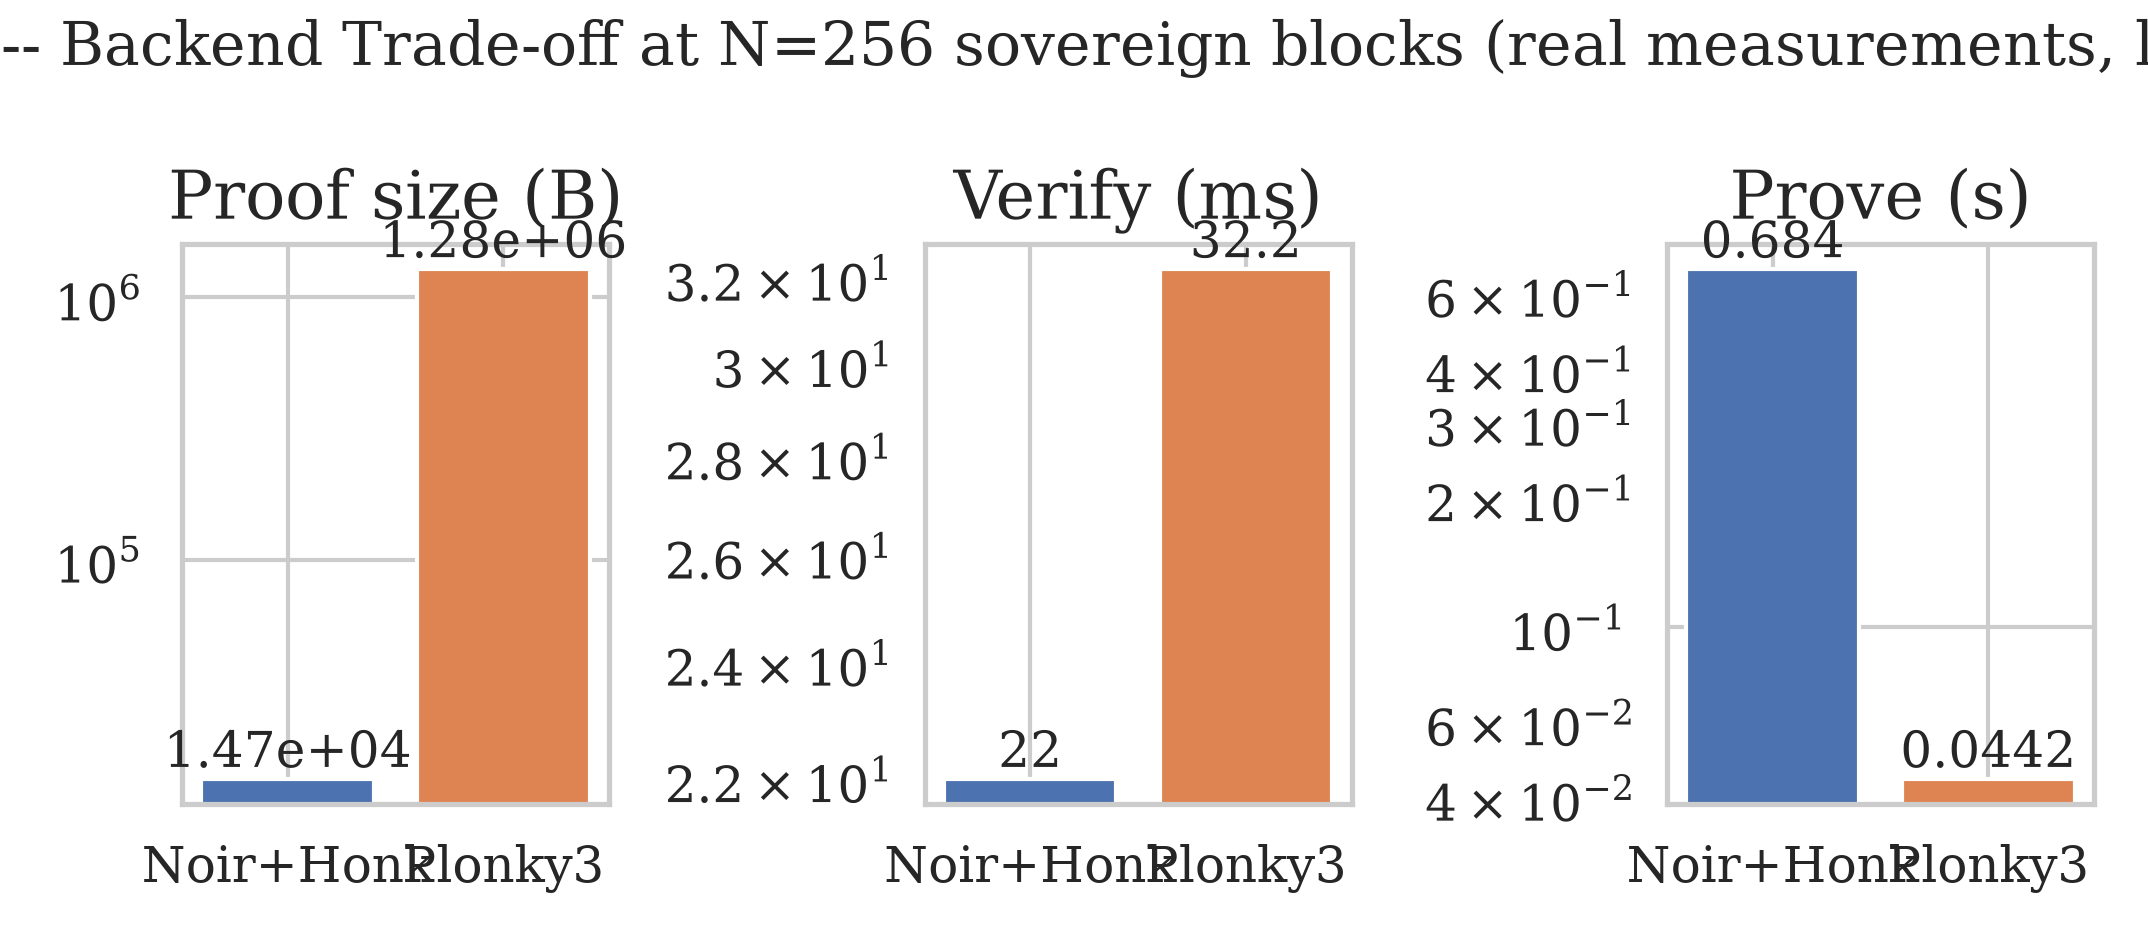
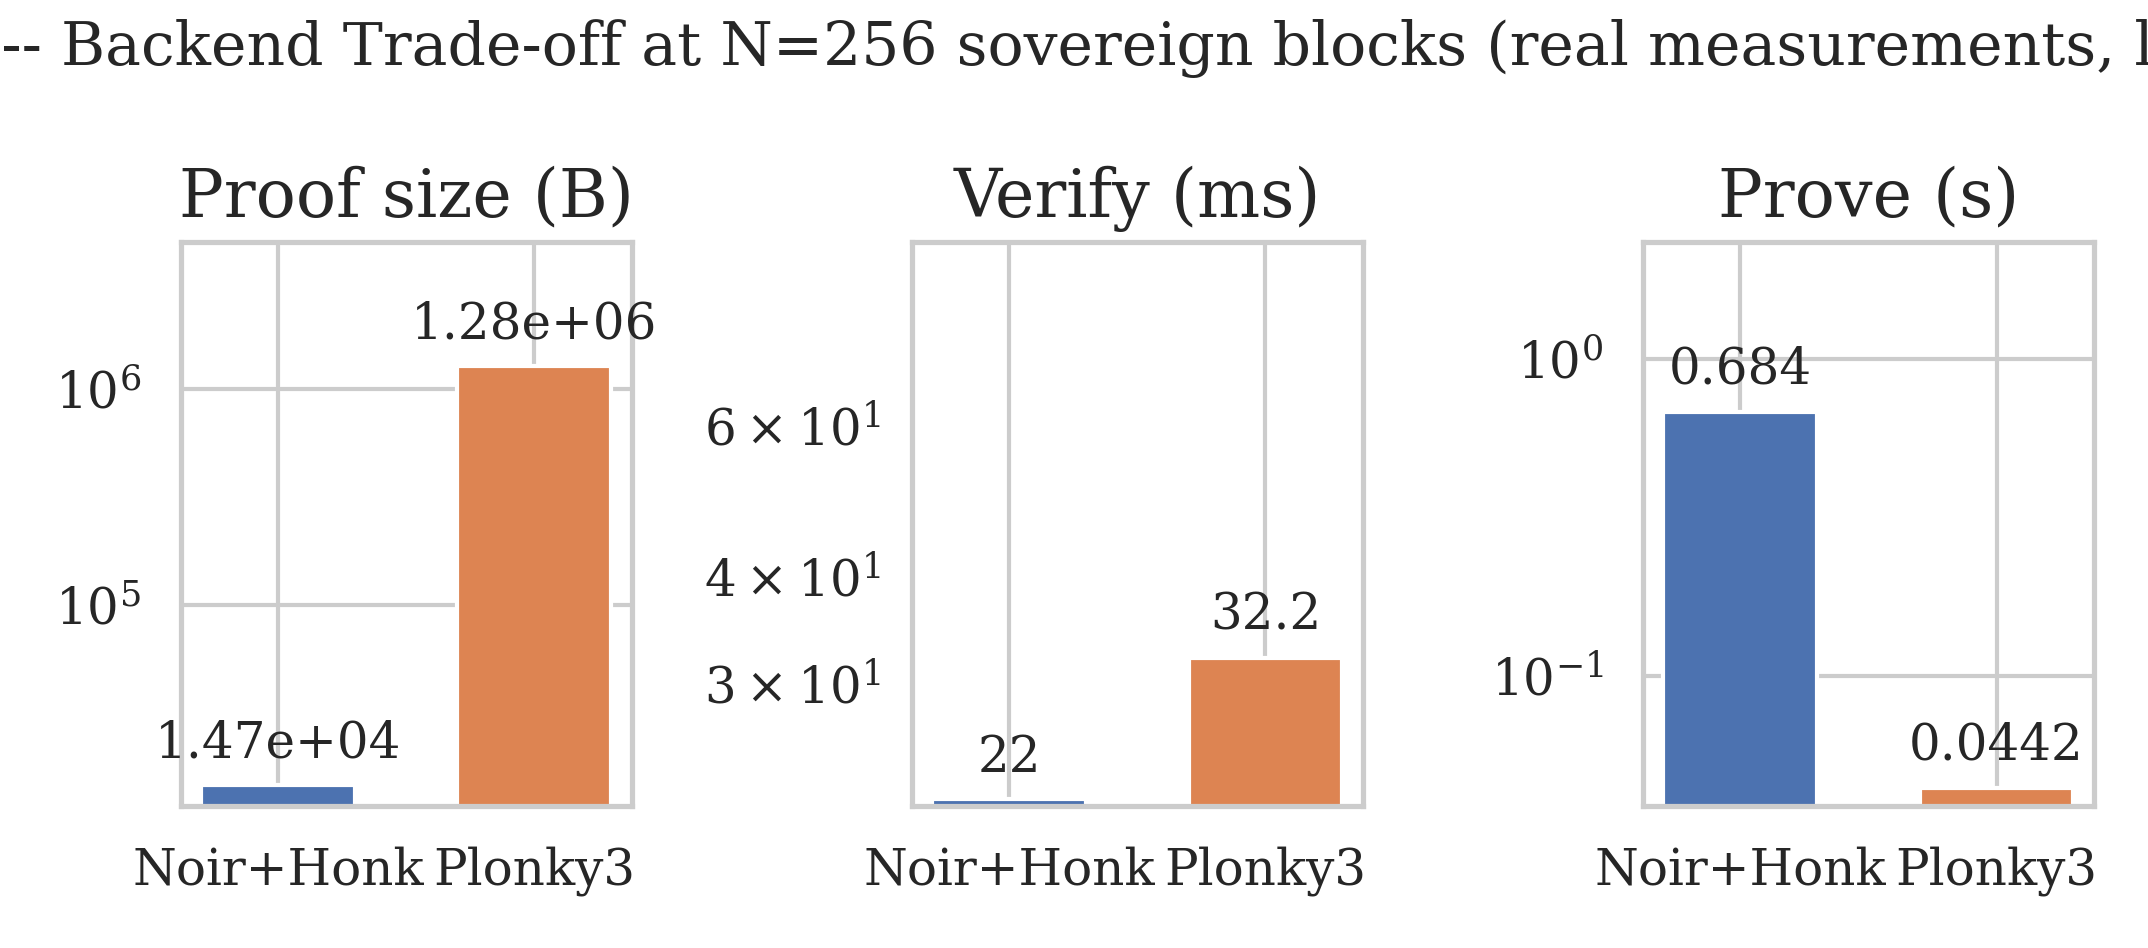
e6: refresh backend comparison table and figure

diff --git a/scripts/e6_zk_reanchoring_benchmark/table6c_collector.py b/scripts/e6_zk_reanchoring_benchmark/table6c_collector.py
@@ -129,10 +129,15 @@ def build_figure7(noir_rows, plonky3_rows):
 
     fig, axes = plt.subplots(1, 3, figsize=figsize_row(3))
     for ax, metric, nv, pv in zip(axes, metrics, noir_vals, p3_vals):
-        bars = ax.bar(["Noir+Honk", "Plonky3"], [nv, pv], color=["C0", "C1"])
+        # width<1 separates the two bars so each value label has room; padding
+        # pushes the label above the bar top (log scale would otherwise clip
+        # or overlap it on the neighboring bar).
+        bars = ax.bar(["Noir+Honk", "Plonky3"], [nv, pv], width=0.6, color=["C0", "C1"])
         ax.set_title(metric)
-        ax.bar_label(bars, fmt="%.3g")
+        ax.bar_label(bars, fmt="%.3g", padding=4)
         ax.set_yscale("log")
+        ymin, ymax = ax.get_ylim()
+        ax.set_ylim(ymin, ymax * 3)
 
     fig.suptitle(
         f"Figure 7 -- Backend Trade-off at N={REPRESENTATIVE_N} sovereign blocks (real measurements, log scale)"

diff --git a/scripts/e6_zk_reanchoring_benchmark/results/table6c_backend_comparison.md b/scripts/e6_zk_reanchoring_benchmark/results/table6c_backend_comparison.md
@@ -1,6 +1,6 @@
 **Table 6C -- Backend Comparison (measured, N=256 sovereign blocks):**
 
-Noir+Honk measures circuit/reanchoring/src/main.nr (Poseidon2 header-chain continuity, real nargo+bb pipeline, table6b_scaling.csv). Plonky3 measures the same dominant cost driver -- N chained Poseidon2 permutations -- via Plonky3's own first-party benchmark example (prove_prime_field_31, pinned commit a31a1443a114c58735850daa5b5fc5c43c138d9d), NOT a hand-rolled reimplementation of main.nr's exact header struct; see benchmark_plonky3.sh's header comment for why. The two circuits are therefore not bit-identical, but both now genuinely isolate the same primitive (Poseidon2, two permutations per header on the Noir side) that dominates constraint count there (table6a_6b.md's regression). Trusted setup / PQ secure are well-established properties of the underlying commitment scheme (KZG pairing-based for UltraHonk, FRI hash-based for Plonky3), not a per-run measurement -- documented here as qualitative facts, not fabricated numbers. Recursion support is left as a qualitative note, not scored: Barretenberg ships documented recursive-UltraHonk-verification support (used elsewhere in this repo's own toolchain notes); this specific Plonky3 checkout (0.6.0-era, no dedicated recursion crate/example found in its own README/CHANGELOG at the pinned commit) does not ship a ready-made recursive-verifier example to measure against, so no claim is made about its recursion maturity relative to Barretenberg's.
+Noir+Honk measures circuit/reanchoring/src/main.nr (Poseidon2 header-chain continuity, real nargo+bb pipeline, table6b_scaling.csv). Plonky3 measures the same dominant cost driver -- N chained Poseidon2 permutations -- via Plonky3's own first-party benchmark example (prove_prime_field_31, pinned commit a31a1443a114c58735850daa5b5fc5c43c138d9d), NOT a hand-rolled reimplementation of main.nr's exact header struct; see benchmark_plonky3.sh's header comment for why. The two circuits are therefore not bit-identical, but both genuinely isolate the same primitive (Poseidon2, two permutations per header on the Noir side) that dominates constraint count there (table6a_6b.md's regression). Trusted setup / PQ secure are well-established properties of the underlying commitment scheme (KZG pairing-based for UltraHonk, FRI hash-based for Plonky3), not per-run measurements -- qualitative facts, not fabricated numbers. Recursion is a qualitative note, not scored: Barretenberg ships documented recursive-UltraHonk support; this Plonky3 checkout (0.6.0-era) has no ready-made recursive-verifier example to measure against, so no claim is made about its recursion maturity.
 
 | Metric | Noir + Honk | Plonky3 (Poseidon2/FRI) |
 | --- | ---: | ---: |
